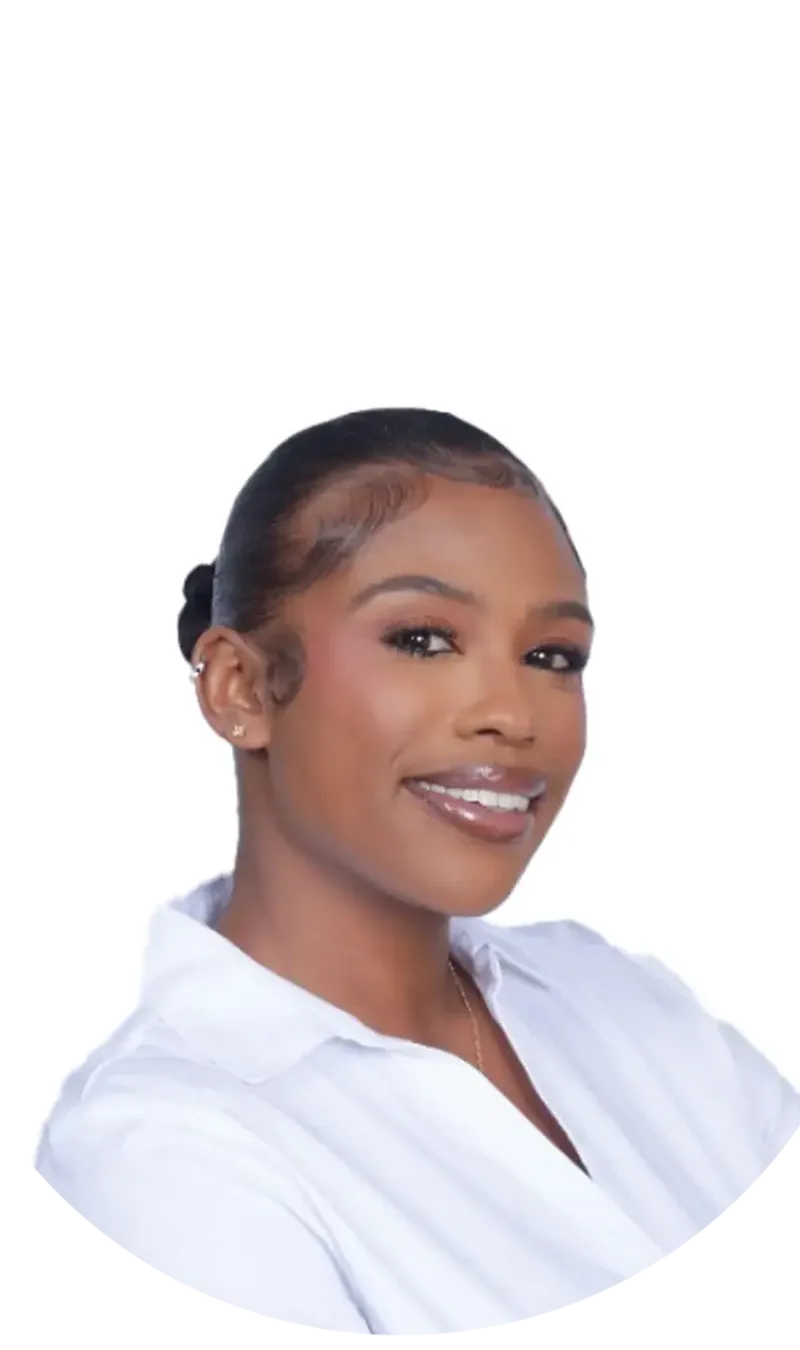
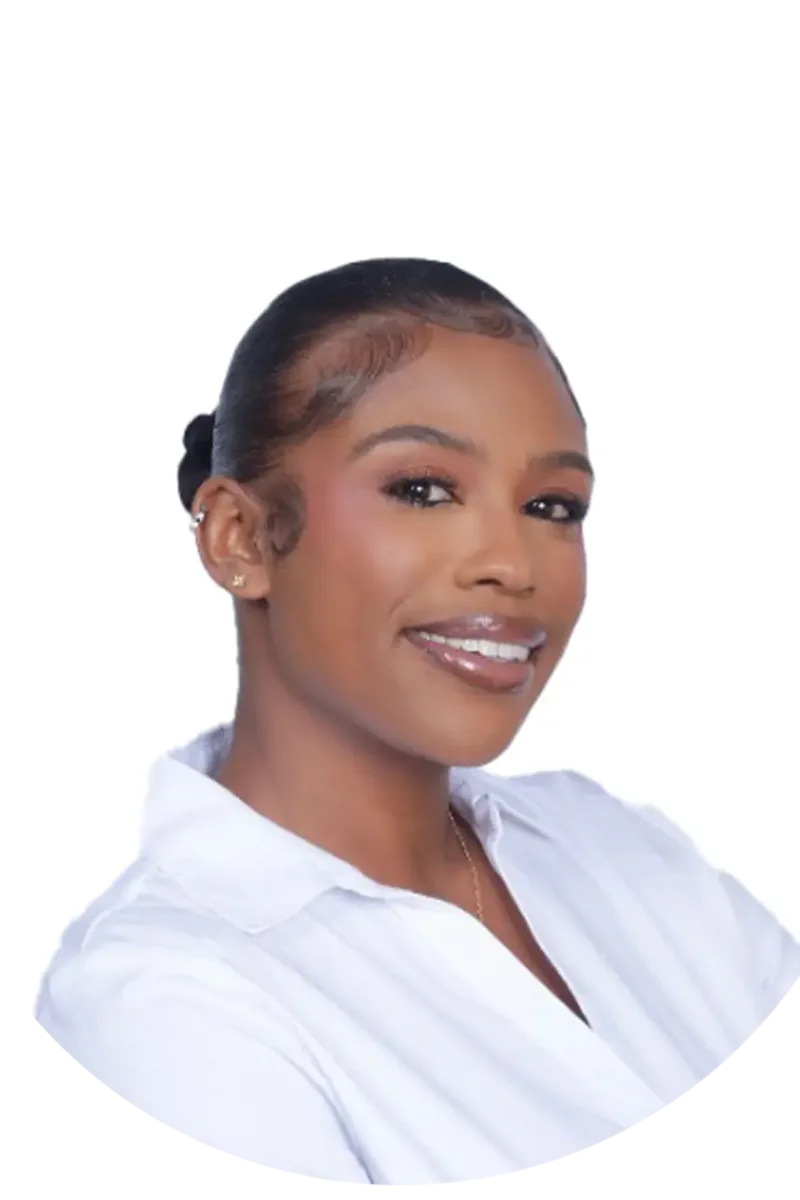
Fix Alexandra photo framing, style scroll text with gold gradient and padding
- Reprocessed Alexandra's photo with proper headroom for circle crop
- Scroll indicator text now gold gradient, bolder (700), slightly larger (0.75rem)
- Added padding below scroll indicator

diff --git a/app/globals.css b/app/globals.css
@@ -485,10 +485,16 @@ color: #fff;
   opacity: 0;
   animation: heroFade 1s 1.2s forwards;
   z-index: 3;
+  padding-bottom: 40px;
 }
 .hero-scroll span {
-  font-size: 0.6rem; letter-spacing: 3px;
-  text-transform: uppercase; color: #c9a84c;
+  font-size: 0.75rem; letter-spacing: 3px;
+  text-transform: uppercase;
+  font-weight: 700;
+  background: linear-gradient(135deg, #c9a84c, #e8d5a0, #d4b878);
+  -webkit-background-clip: text;
+  background-clip: text;
+  color: transparent;
 }
 .scroll-line {
   width: 1px; height: 60px;
